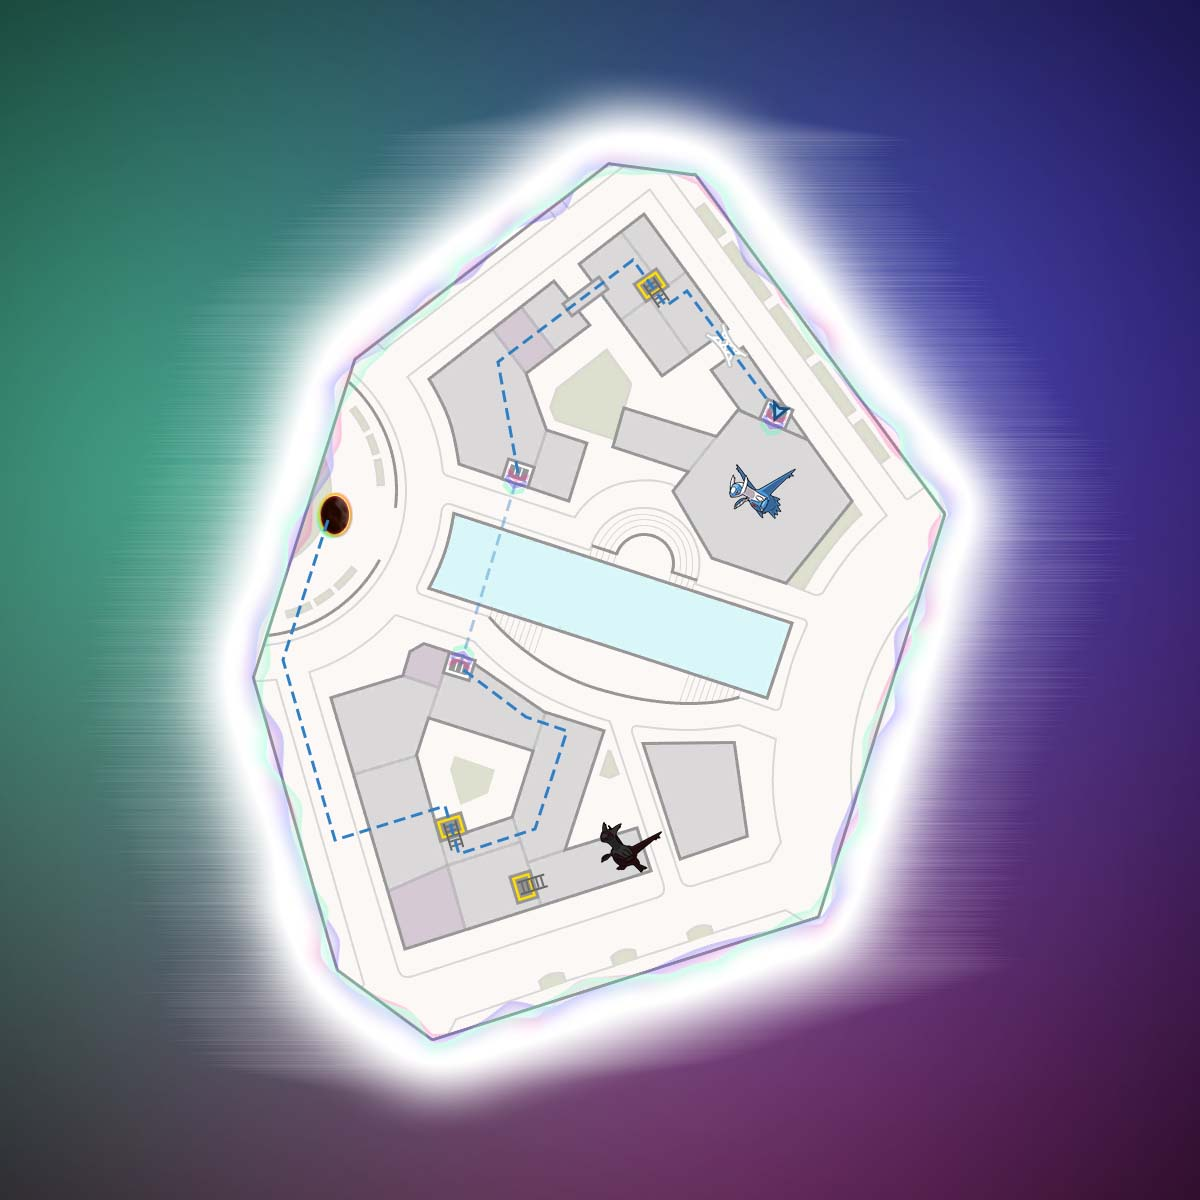
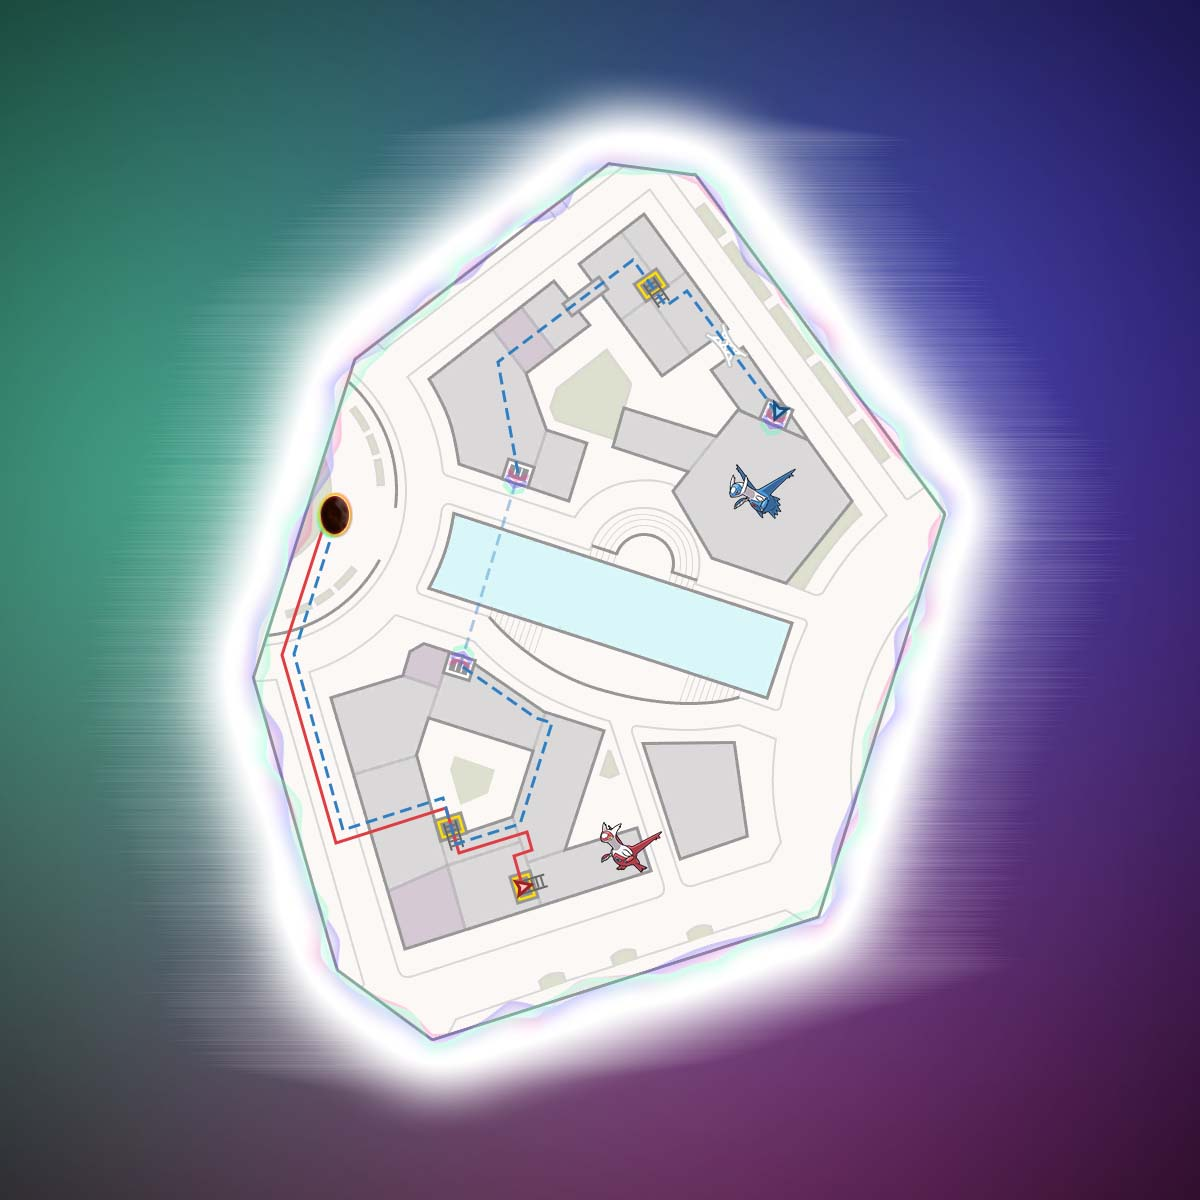
Added First Latias Route
Added Latias with shiny sound detector to hyperspace legendary docs

diff --git a/docs/Programs/PokemonLZA/ShinyHunt-HyperspaceLegendary.md b/docs/Programs/PokemonLZA/ShinyHunt-HyperspaceLegendary.md
@@ -8,8 +8,6 @@ Shiny huntable legendary Pokémon are Latias, Latios, Cobalion, Terrakion, and V
 
 Shiny odds for the legendaries are affected by the Shiny Charm and Sparkling Power donuts but the size and IVs are fixed.
 
-Currently, only Latios, Cobalion, Terrakion, and Virizion are supported.
-
 ### Setup of Settings
 
 **Switch Settings:**
@@ -40,8 +38,8 @@ Currently, only Latios, Cobalion, Terrakion, and Virizion are supported.
 ### Instructions
 
 1. Enter a 5-star hyperspace legendary wild zone.
-2. Based on the legendary you want to hunt, move to the location shown below.
-3. If hunting Swords of Justice, set enough calories in option **Minimum Cal. Reserved to Catch Legendary**. A 5-star hyperspace burns 10 calories per second.
+2. Based on the legendary you want to hunt, move to the location shown on the maps below. Written instructions are also provided if needed.
+3. If hunting Latias or Swords of Justice, set enough calories in option **Minimum Cal. Reserved to Catch Legendary**. A 5-star hyperspace burns 10 calories per second.
 4. Save the game at the location described below.
 5. Start the program.
 
@@ -52,8 +50,8 @@ Movement for each legendary:
 
 | Pokémon | Image |
 | --- | --- |
-| **Latias**<br>- To be implemented. | |
-| **Latios**<br>- Stand on the Holovator pad that leads to the roof top where Latios resides. <br>- Make sure you have enough Calories left to catch it. | [<img src="images//ShinyHunt-HyperspaceLegendary-LatiosStart.jpg" width="600">](images//ShinyHunt-HyperspaceLegendary-LatiosStart.jpg) |
+| **Latias**<br>- From the entrance, make a hard right and follow the street<br>- The building on the left side of the street has a tunnel into a courtyard, enter the courtyard<br>- Immediately after the tunnel, turn right and climb the ladder to the top and climb onto the roof<br>- Go left, and climb onto the roof with the Noibat/Noivern<br>- Once you're on that roof, climb onto the higher roof on your right<br>- Go to up to the ladder that leads up to Latias, don't climb it<br>- Stand in front of the ladder with the "A" button prompt visible<br><br>Note: You may need to defeat or de-aggro Noibat/Noivern to save | [<img src="images//ShinyHunt-HyperspaceLegendary-LatiasStart.jpg" width="600">](images//ShinyHunt-HyperspaceLegendary-LatiasStart.jpg) |
+| **Latios**<br>- From the entrance, make a hard right and follow the street<br>- The building on the left side of the street has a tunnel into a courtyard, enter the courtyard<br>- Immediately after the tunnel, turn right and climb the ladder to the top and climb onto the roof<br>- Go left, and climb onto the roof with the Hawlucha<br>- Go towards the left, past the Hawlucha<br>- Drop onto the roof with the chimneys and use the Holovator pad on the far end to get across the canal<br>- Go towards and climb onto the roof that is higher<br>- Cross the bridge that is ahead, clearing the vines in the way<br>- Climb the ladder to the right<br>- Walk across the web<br>- After crossing the web, drop off the roof onto the terrace that's straight ahead<br> - Stand on the Holovator pad that leads to the roof top where Latios resides, with the "A" button prompt visible<br><br>Note: Make sure you have enough Calories left to catch it. | [<img src="images//ShinyHunt-HyperspaceLegendary-LatiosStart.jpg" width="600">](images//ShinyHunt-HyperspaceLegendary-LatiosStart.jpg) |
 
 
 #### Swords of Justice
@@ -62,8 +60,8 @@ Movement for each legendary:
 | Pokémon | Image |
 | --- | --- |
 | **Cobalion**<br>- From the entrance, run forwards and right and drop into the alley<br>- Go down the stairs<br>- At the bottom of the stairs, turn left towards the bridge, and take the ramps down to the canal level<br>- Move onto the ice <br>- Go under the bridge while on the ice <br>- Make sure your character is beneath the very center of the bridge and that your camera is directly facing the wall | [<img src="images/ShinyHunt-HyperspaceLegendary-CobalionStart.jpg" width="300">](images/ShinyHunt-HyperspaceLegendary-CobalionStart.jpg) [<img src="images/ShinyHunt-HyperspaceLegendary-CobalionStart2.jpg" width="300">](images/ShinyHunt-HyperspaceLegendary-CobalionStart2.jpg) |
-| **Terrakion**<br>- Go left from the entrance<br>- Go halfway down the stairs<br>- Turn right onto the grass<br>- Take the warp pad up to the roof<br>- Turn towards the right and go to the warp panel that points towards the scaffolding near the entrance<br>- Make sure the warp pad "A" button is visible | <img src="images/ShinyHunt-HyperspaceLegendary-TerrakionStart.jpg" width="600">
-| **Virizion**<br>- From the entrance, run forward and right and drop into the alley<br>- Climb the ladder on the far right side<br>- Climb onto the roof, and move to the plank on the right<br>- Cross the plank and climb onto the roof<br>- Use the Rotom Glide to jump onto the building toward the right, the one with a warp pad<br>- Move to the ladder at the end, face the ladder with the "A" button visible | <img src="images/ShinyHunt-HyperspaceLegendary-VirizionStart.jpg" width="600"> 
+| **Terrakion**<br>- Go left from the entrance<br>- Go halfway down the stairs<br>- Turn right onto the grass<br>- Take the Holovator pad up to the roof<br>- Turn towards the right and go to the Holovator pad that points towards the scaffolding near the entrance<br>- Make sure the "A" button prompt is visible | <img src="images/ShinyHunt-HyperspaceLegendary-TerrakionStart.jpg" width="600">
+| **Virizion**<br>- From the entrance, run forward and right and drop into the alley<br>- Climb the ladder on the far right side<br>- Climb onto the roof, and move to the plank on the right<br>- Cross the plank and climb onto the roof<br>- Use the Rotom Glide to jump onto the building toward the right, the one with a warp pad<br>- Move to the ladder at the end, face the ladder with the "A" button prompt visible | <img src="images/ShinyHunt-HyperspaceLegendary-VirizionStart.jpg" width="600"> 
 
 
 
@@ -91,7 +89,7 @@ When a shiny is detected, wait this long before you take a screenshot and record
 
 Which Legendary you are hunting.
 
-### Minimum Cal. Reserved to Catch Legendary (Only For Hunting Sword of Justice)
+### Minimum Cal. Reserved to Catch Legendary (Does not apply to Latios)
 
 Minimum amount of calories you need to catch the legendary after the program find it shiny. It burns 10 calories per second in those 5-star legendary Hyperspace Wild Zones.
 
